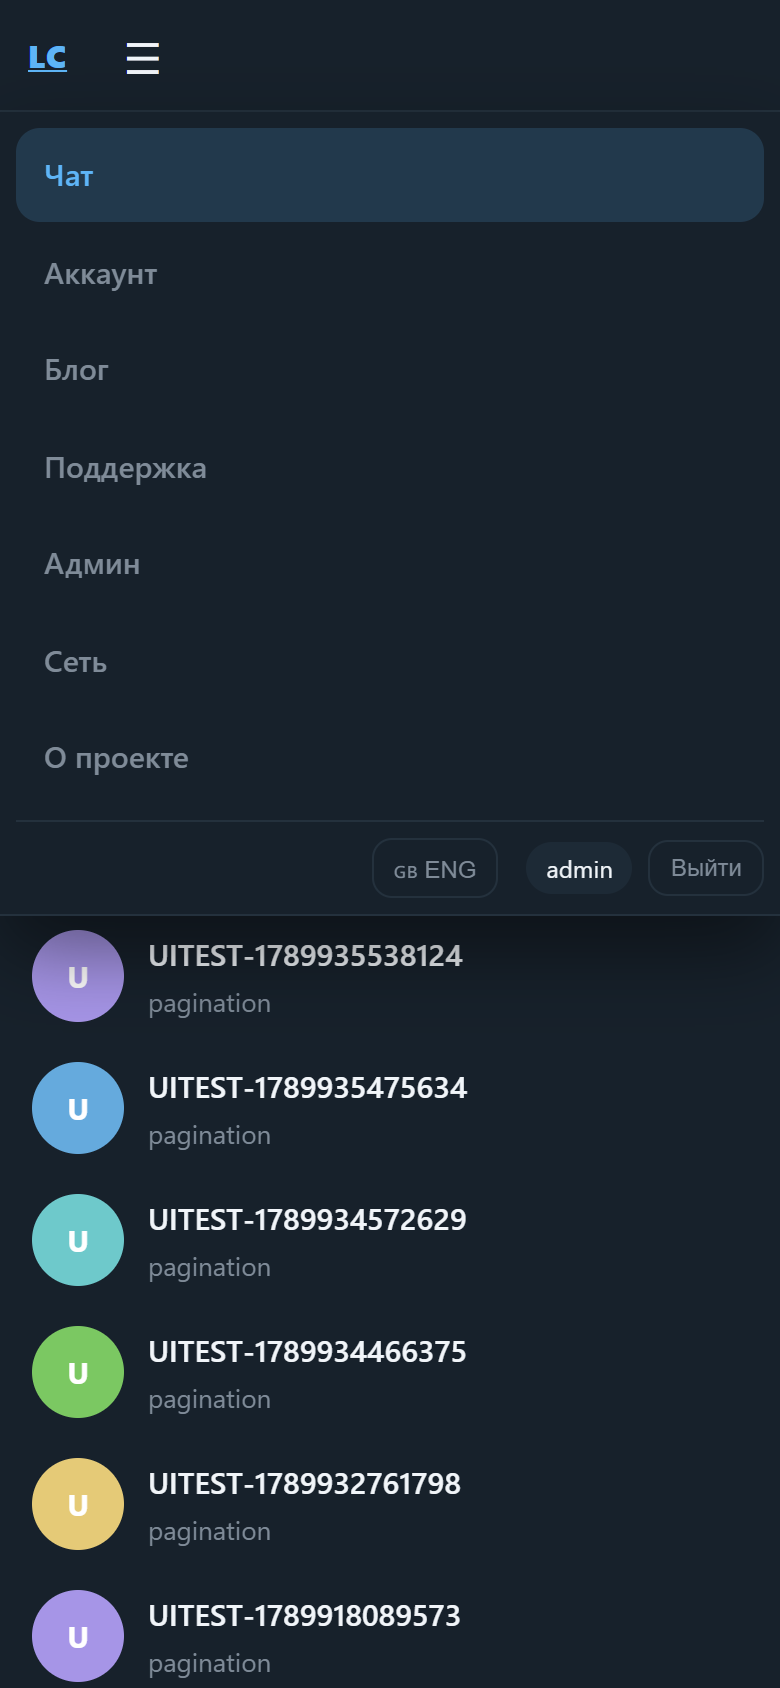
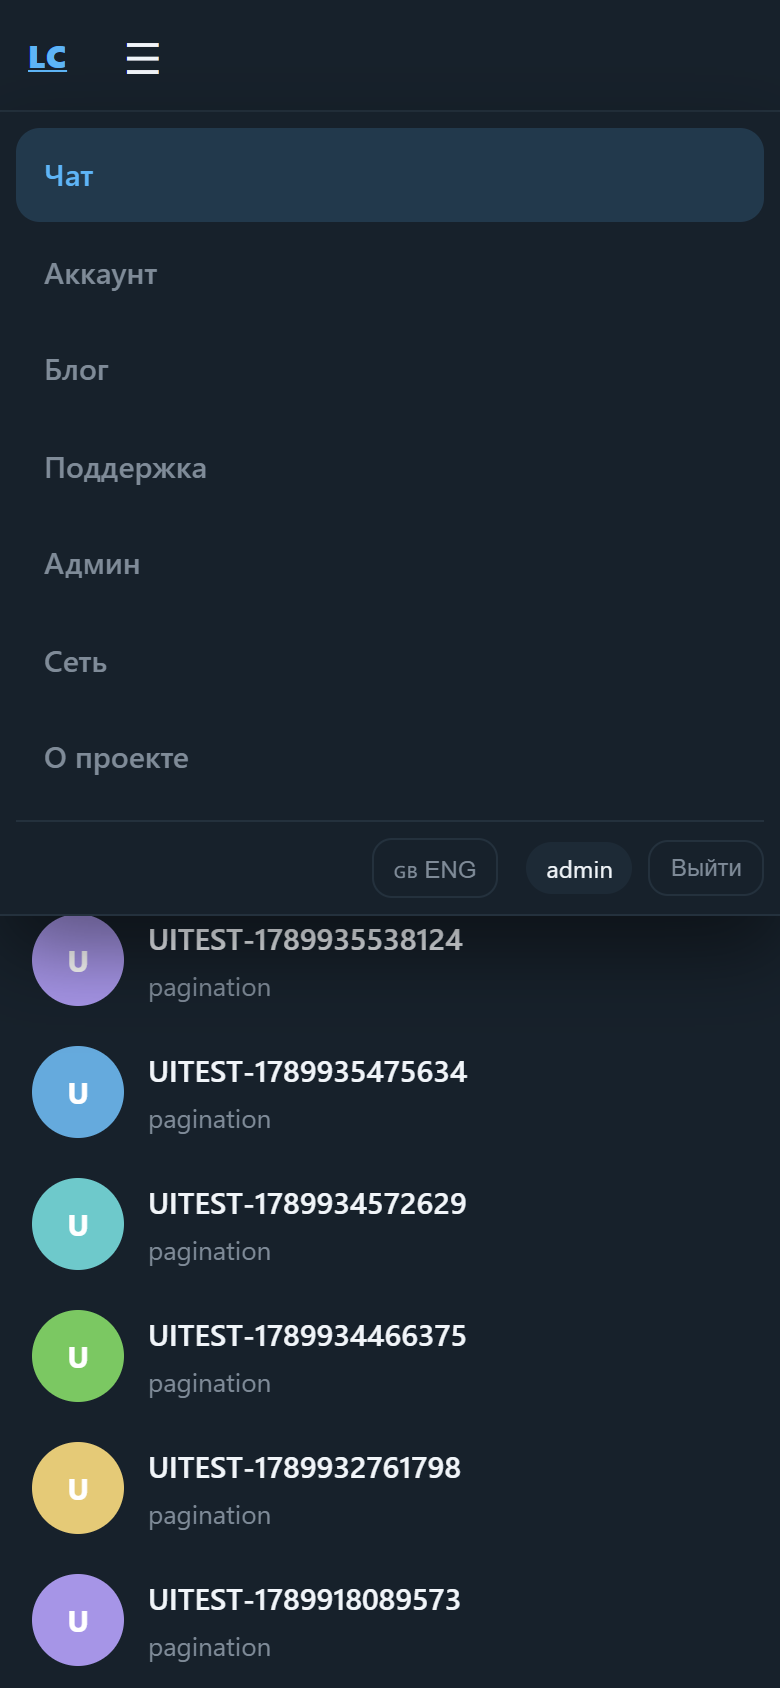
fix(ui): lock page scroll on iOS in chat mode
- body.chat-mode pinned (position:fixed inset:0) so the whole page cannot drift up on iPhone/Safari
- app height now from real visible viewport: --app-h = visualViewport.height (updates on resize/orientation)
- keeps composer visible when the iOS keyboard opens
- mobile_chrome_check 22/22 (page lock, header drag stays put, other pages still scroll)
- ui_test 69/69, admin_audit 62/62, spa_actions 20/20, scroll_check 19/19, RPi probe 31/31

Changed region(s): [[0.0308, 0.5237, 0.6154, 1.0], [0.1846, 0.8626, 0.5846, 1.0], [0.1846, 0.7085, 0.6154, 0.8318]]

diff --git a/server/app/static/app.css b/server/app/static/app.css
@@ -27,8 +27,9 @@ a:hover{text-decoration:underline}
 
 /* ===== Main ===== */
 .main{padding-top:72px;max-width:960px;margin:0 auto;padding-left:16px;padding-right:16px;padding-bottom:40px}
-.main.chat-wide{max-width:1240px;padding-top:66px;padding-bottom:10px;height:100vh;height:100dvh;display:flex;flex-direction:column;overflow:hidden}
-body.chat-mode{overflow:hidden;overscroll-behavior:none}
+.main.chat-wide{max-width:1240px;padding-top:66px;padding-bottom:10px;height:100vh;height:100dvh;height:var(--app-h,100dvh);display:flex;flex-direction:column;overflow:hidden}
+body.chat-mode{position:fixed;top:0;left:0;right:0;bottom:0;width:100%;min-height:0;overflow:hidden;overscroll-behavior:none}
+html:has(body.chat-mode){overflow:hidden}
 
 /* Cards */
 .card{background:var(--bg2);border:1px solid var(--border);border-radius:var(--radius);padding:22px;margin-bottom:16px}

diff --git a/server/app/static/app.js b/server/app/static/app.js
@@ -2010,6 +2010,19 @@ window.onload = async () => {
   };
 };
 
+// iOS-safe app height: use the real visible viewport (visualViewport), not vh/dvh.
+// Otherwise on iPhone the document has extra scrollable height and the whole page
+// (including the top bar) drifts up and stays there.
+function setAppHeight() {
+  var vv = window.visualViewport;
+  var h = (vv && vv.height) ? vv.height : window.innerHeight;
+  if (h) document.documentElement.style.setProperty('--app-h', Math.round(h) + 'px');
+}
+setAppHeight();
+if (window.visualViewport) window.visualViewport.addEventListener('resize', setAppHeight);
+window.addEventListener('resize', setAppHeight);
+window.addEventListener('orientationchange', function(){ setTimeout(setAppHeight, 250); });
+
 
 
 

diff --git a/server/app/templates/index.html b/server/app/templates/index.html
@@ -5,7 +5,7 @@
 <meta name="viewport" content="width=device-width,initial-scale=1.0,maximum-scale=1.0,user-scalable=no">
 <meta name="theme-color" content="#0e1621">
 <title>Local Chat</title>
-<link rel="stylesheet" href="/static/app.css?v=1789902200">
+<link rel="stylesheet" href="/static/app.css?v=1789902300">
 </head>
 <body>
 <div id="static-login" class="auth-wrap">
@@ -59,7 +59,7 @@
   </noscript>
 </main>
 
-<script src="/static/app.js?v=1789902200"></script>
+<script src="/static/app.js?v=1789902300"></script>
 
 <script>
 var _st = localStorage.getItem("lc_session_token");

diff --git a/FIXES_REPORT_2026-09-20.md b/FIXES_REPORT_2026-09-20.md
@@ -207,3 +207,11 @@
 - **Проверено тач-жестами** (эмуляция телефона, CDP touch): список скроллится, чат скроллится, позиция не прыгает при автоподгрузке истории, композер и шапки на местах. Сьют `mobile_chrome_check` расширен с 10 до 17 проверок (подпись кнопки, размеры, фон, тач-скролл списка и чата, стабильность позиции, модалка лички).
 - Все сьюты зелёные: mobile_chrome 17/17, ui_test 69/69, admin_audit 62/62, spa_actions 20/20, scroll_check 19/19, RPi-пробник 31/31. Версия `v=1789902200`.
 - Если на телефоне прокрутка списка всё ещё ведёт себя странно — нужно уточнить, что именно: не двигается совсем / прыгает вверх / не видно последние чаты / открывается чат вместо прокрутки.
+
+## Дополнение 16: iPhone — страница «уезжала» вверх и не возвращалась
+
+- **Симптом (с телефона)**: при прокрутке списка чатов/сообщений скроллилось **всё вместе с верхней панелью**, и обратно страница не возвращалась. Устройство: iPhone, окно captive portal (Safari/WebKit).
+- **Причина**: на iOS высота видимого окна меньше `100vh` (панель браузера), а `body` имел `min-height:100vh` и приложение — `height:100dvh`. Документ получал лишний запас по высоте (~высота панели браузера), и WebKit прокручивал не список, а всю страницу; позиция прокрутки не сбрасывалась.
+- **Фикс**: в режиме чата страница блокируется намертво — `body.chat-mode{position:fixed;inset:0;overflow:hidden}` (+ `html:has(body.chat-mode){overflow:hidden}` как страховка), а высота приложения берётся из **реального видимого окна**: `--app-h` = `visualViewport.height`, обновляется на resize/orientationchange. Теперь на iPhone прокручиваются только список чатов и лента сообщений, верхняя панель неподвижна.
+- Бонус: при открытии клавиатуры на iOS `visualViewport` уменьшается → приложение и поле ввода остаются видимыми над клавиатурой.
+- **Проверено** (эмуляция телефона): страница в режиме чата не имеет прокручиваемого переполнения, body зафиксирован, `--app-h` задан, свайп по шапке не сдвигает страницу; список и чат скроллятся тач-жестами; переход на другие страницы возвращает обычный скролл. Сьют `mobile_chrome_check` — 22/22, ui_test 69/69, admin_audit 62/62, spa_actions 20/20, scroll_check 19/19, RPi-пробник 31/31. Версия `v=1789902300`.
